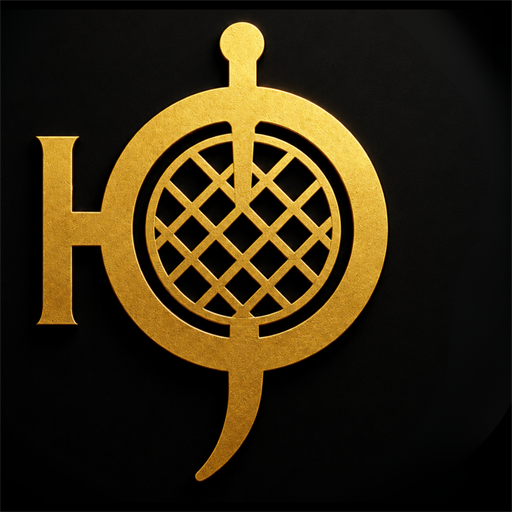
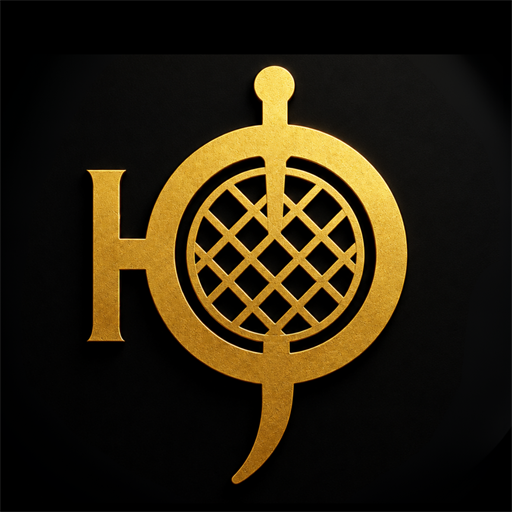
last

Changed region(s): [[0.0625, 0.0312, 0.8125, 0.9688]]

diff --git a/src/components/BrandMark.tsx b/src/components/BrandMark.tsx
@@ -4,10 +4,9 @@ export function BrandMark({ className = "size-16" }: { className?: string }) {
       className={`relative block shrink-0 overflow-hidden rounded-full border border-accent-2 bg-black ${className}`}
     >
       <img
-        src="/miracicon.png"
+        src="/mirac-mark.png"
         alt=""
-        className="pointer-events-none absolute h-full max-w-none select-none"
-        style={{ width: "177.78%", left: "-44.72%", top: "2.1%" }}
+        className="pointer-events-none size-full object-contain object-center select-none"
       />
     </span>
   );
